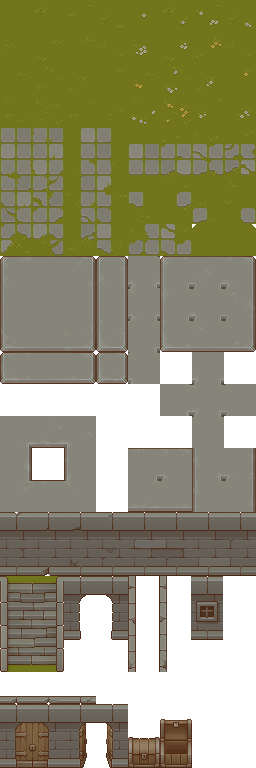
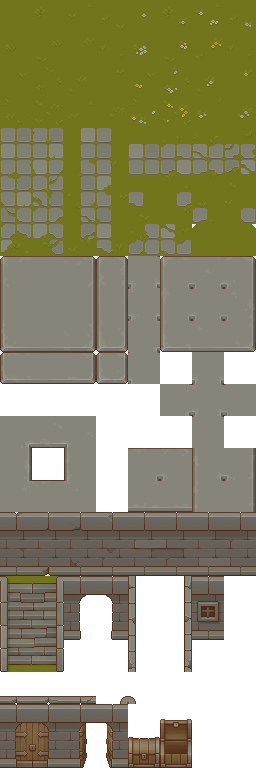
first level partially designed

Changed region(s): [[0.7188, 0.75, 0.875, 0.875], [0.5938, 0.75, 0.6562, 0.875], [0.4688, 0.9062, 0.5312, 0.9375]]

diff --git a/static/index.js b/static/index.js
@@ -7,26 +7,26 @@ let then = Date.now();
 let request_id;
 
 let background = [
-    [64, 65, 65, 65, 65, 65, 65, 65, 65, 65, 65, 65, 65, 65, 65, 1, 1, 1, 1, 1, 1, 1, 1, 1, 1, 1, 1, 1, 1, 66],
-    [128, 129, 130, 128, 129, 130, 128, 129, 130, 128, 129, 130, 128, 129, 130, 128, 129, 130, 128, 129, 130, 128, 129, 130, 128, 129, 130, 128, 129, 149],
-    [139, 140, 141, 139, 140, 141, 139, 140, 141, 139, 140, 141, 139, 140, 141, 139, 140, 141, 139, 140, 141, 139, 140, 141, 139, 140, 141, 139, 140, 149],
-    [1, 1, 1, 1, 1, 1, 1, 1, 1, 1, 1, 1, 1, 1, 1, 1, 1, 1, 1, 1, 1, 1, 1, 1, 1, 1, 1, 1, 1, 1],
-    [1, 1, 1, 1, 1, 1, 1, 1, 1, 1, 1, 1, 1, 1, 1, 1, 1, 1, 1, 1, 1, 1, 1, 1, 1, 1, 1, 1, 1, 1],
-    [1, 1, 1, 1, 1, 1, 1, 1, 1, 1, 1, 1, 1, 1, 1, 1, 1, 1, 1, 1, 1, 1, 1, 1, 1, 1, 1, 1, 1, 1],
-    [1, 1, 1, 1, 1, 1, 1, 1, 1, 1, 1, 1, 1, 1, 1, 1, 1, 1, 1, 1, 1, 1, 1, 1, 1, 1, 1, 1, 1, 1],
-    [1, 1, 1, 1, 1, 1, 1, 1, 1, 1, 1, 1, 1, 1, 1, 1, 1, 1, 1, 1, 1, 1, 1, 1, 1, 1, 1, 1, 1, 1],
-    [1, 1, 1, 1, 1, 1, 1, 1, 1, 1, 1, 1, 1, 1, 1, 1, 1, 1, 1, 1, 1, 1, 1, 1, 1, 1, 1, 1, 1, 1],
-    [1, 1, 1, 1, 1, 1, 1, 1, 1, 1, 1, 1, 1, 1, 1, 1, 1, 1, 1, 1, 1, 1, 1, 1, 1, 1, 1, 1, 1, 1],
-    [1, 1, 1, 1, 1, 1, 1, 1, 1, 1, 1, 1, 1, 1, 1, 1, 1, 1, 1, 1, 1, 1, 1, 1, 1, 1, 1, 1, 1, 1],
-    [1, 1, 1, 1, 1, 1, 1, 1, 1, 1, 1, 1, 1, 1, 1, 1, 1, 1, 1, 1, 1, 1, 1, 1, 1, 1, 1, 1, 1, 1],
-    [1, 1, 1, 1, 1, 1, 1, 1, 1, 1, 1, 1, 1, 1, 1, 1, 1, 1, 1, 1, 1, 1, 1, 1, 1, 1, 1, 1, 1, 1],
-    [1, 1, 1, 1, 1, 1, 1, 1, 1, 1, 1, 1, 1, 1, 1, 1, 1, 1, 1, 1, 1, 1, 1, 1, 1, 1, 1, 1, 1, 1],
-    [1, 1, 1, 1, 1, 1, 1, 1, 1, 1, 1, 1, 1, 1, 1, 1, 1, 1, 1, 1, 1, 1, 1, 1, 1, 1, 1, 1, 1, 1],
-    [1, 1, 1, 1, 1, 1, 1, 1, 1, 1, 1, 1, 1, 1, 1, 1, 1, 1, 1, 1, 1, 1, 1, 1, 1, 1, 1, 1, 1, 1],
-    [1, 1, 1, 1, 1, 1, 1, 1, 1, 1, 1, 1, 1, 1, 1, 1, 1, 1, 1, 1, 1, 1, 1, 1, 1, 1, 1, 1, 1, 1],
-    [1, 1, 1, 1, 1, 1, 1, 1, 1, 1, 1, 1, 1, 1, 1, 1, 1, 1, 1, 1, 1, 1, 1, 1, 1, 1, 1, 1, 1, 1],
-    [1, 1, 1, 1, 1, 1, 1, 1, 1, 1, 1, 1, 1, 1, 1, 1, 1, 1, 1, 1, 1, 1, 1, 1, 1, 1, 1, 1, 1, 1],
-    [1, 1, 1, 1, 1, 1, 1, 1, 1, 1, 1, 1, 1, 1, 1, 1, 1, 1, 1, 1, 1, 1, 1, 1, 1, 1, 1, 1, 1, 1],
+    [171, 168, 170, 169, 169, 170, 168, 169, 168, 170, 169, 170, 170, 168, 169, 169, 170, 168, 169, 170, 168, 169, 170, 168, 169, 170, 168, 169, 170, 172],
+    [149, 129, 176, 177, 129, 130, 128, 129, 130, 128, 129, 130, 128, 129, 130, 128, 129, 130, 128, 129, 130, 128, 129, 130, 128, 129, 130, 128, 129, 148],
+    [157, 140, 184, 185, 140, 141, 139, 140, 141, 139, 140, 141, 139, 140, 141, 139, 140, 141, 139, 140, 141, 139, 140, 141, 139, 140, 141, 139, 140, 156],
+    [165, 1, 1, 1, 1, 1, 1, 1, 1, 1, 1, 1, 1, 1, 1, 1, 1, 1, 1, 1, 1, 1, 1, 1, 1, 1, 1, 1, 1, 164],
+    [149, 1, 1, 1, 1, 1, 1, 1, 1, 1, 1, 1, 1, 1, 1, 1, 1, 1, 1, 1, 1, 1, 1, 1, 1, 1, 1, 1, 1, 148],
+    [157, 1, 1, 1, 1, 1, 1, 1, 1, 1, 1, 1, 1, 1, 1, 1, 1, 1, 1, 1, 1, 1, 1, 1, 1, 1, 1, 1, 1, 156],
+    [165, 1, 1, 1, 1, 1, 1, 1, 1, 1, 1, 1, 1, 1, 1, 1, 1, 1, 1, 1, 1, 1, 1, 1, 1, 1, 1, 1, 1, 164],
+    [149, 1, 1, 1, 1, 1, 1, 1, 1, 1, 1, 1, 1, 1, 1, 1, 1, 1, 1, 1, 1, 1, 1, 1, 1, 1, 1, 1, 1, 148],
+    [157, 1, 1, 1, 1, 1, 1, 1, 1, 1, 1, 1, 1, 1, 1, 1, 1, 1, 1, 1, 1, 1, 1, 1, 1, 1, 1, 1, 1, 156],
+    [165, 1, 1, 1, 1, 1, 1, 1, 1, 1, 1, 1, 1, 1, 1, 1, 1, 1, 1, 1, 1, 1, 1, 1, 1, 1, 1, 1, 1, 164],
+    [149, 1, 1, 1, 1, 1, 1, 1, 1, 1, 1, 1, 1, 1, 1, 1, 1, 1, 1, 1, 1, 1, 1, 1, 1, 1, 1, 1, 1, 148],
+    [157, 1, 1, 1, 1, 1, 1, 1, 1, 1, 1, 1, 1, 1, 1, 1, 1, 1, 1, 1, 1, 1, 1, 1, 1, 1, 1, 1, 1, 156],
+    [165, 1, 1, 1, 1, 1, 1, 1, 1, 1, 1, 1, 1, 1, 1, 1, 1, 1, 1, 1, 1, 1, 1, 1, 1, 1, 1, 1, 1, 164],
+    [149, 1, 1, 1, 1, 1, 1, 1, 1, 1, 1, 1, 1, 1, 1, 1, 1, 1, 1, 1, 1, 1, 1, 1, 1, 1, 1, 1, 1, 148],
+    [157, 1, 1, 1, 1, 1, 1, 1, 1, 1, 1, 1, 1, 1, 1, 1, 1, 1, 1, 1, 1, 1, 1, 1, 1, 1, 1, 1, 1, 156],
+    [165, 1, 1, 1, 1, 1, 1, 1, 1, 1, 1, 1, 1, 1, 1, 1, 1, 1, 1, 1, 1, 1, 1, 1, 1, 1, 1, 1, 1, 164],
+    [149, 133, 134, 135, 133, 134, 135, 133, 134, 135, 133, 134, 135, 133, 134, 135, 133, 134, 135, 133, 134, 135, 176, 177, 133, 134, 135, 133, 134, 148],
+    [157, 141, 142, 143, 141, 142, 143, 141, 142, 143, 141, 142, 143, 141, 142, 143, 141, 142, 143, 141, 142, 143, 184, 185, 143, 141, 142, 143, 141, 156],
+    [-1, -1, -1, -1, -1, -1, -1, -1, -1, -1, -1, -1, -1, -1, -1, -1, -1, -1, -1, -1,- 1, -1, -1, -1, -1, -1, -1, -1, -1, -1],
+    [-1, -1, -1, -1, -1, -1, -1, -1, -1, -1, -1, -1, -1, -1, -1, -1, -1, -1, -1, -1,- 1, -1, -1, -1, -1, -1, -1, -1, -1, -1],
 ]
 
 let tilesPerRow = 8;
@@ -226,8 +226,8 @@ function init() {
         event.preventDefault();
     });
 
-    player.x = canvas.width/2
-    player.y = canvas.height/2 - player.height
+    player.x = canvas.width-96
+    player.y = canvas.height-192
 
     load_assets([
         {"var": playerWalk, "url": "../static/images/player_animations/CHARACTER_WALK.png"},

diff --git a/static/index.css b/static/index.css
@@ -9,10 +9,10 @@
     margin: 0;
     font-family: 'Extrude', sans-serif;
     font-size: 48px;
+    background-color: #3c5796;
 }
 
 canvas {
-    background-color: gray;
     margin-top: 0.5em;
 }
 
@@ -23,7 +23,6 @@ body {
 section { 
     width: 100vw;
     height: 100vh;
-    background-color: #3c5796;
     display: flex;
     flex-direction: column;
     align-items: center;
